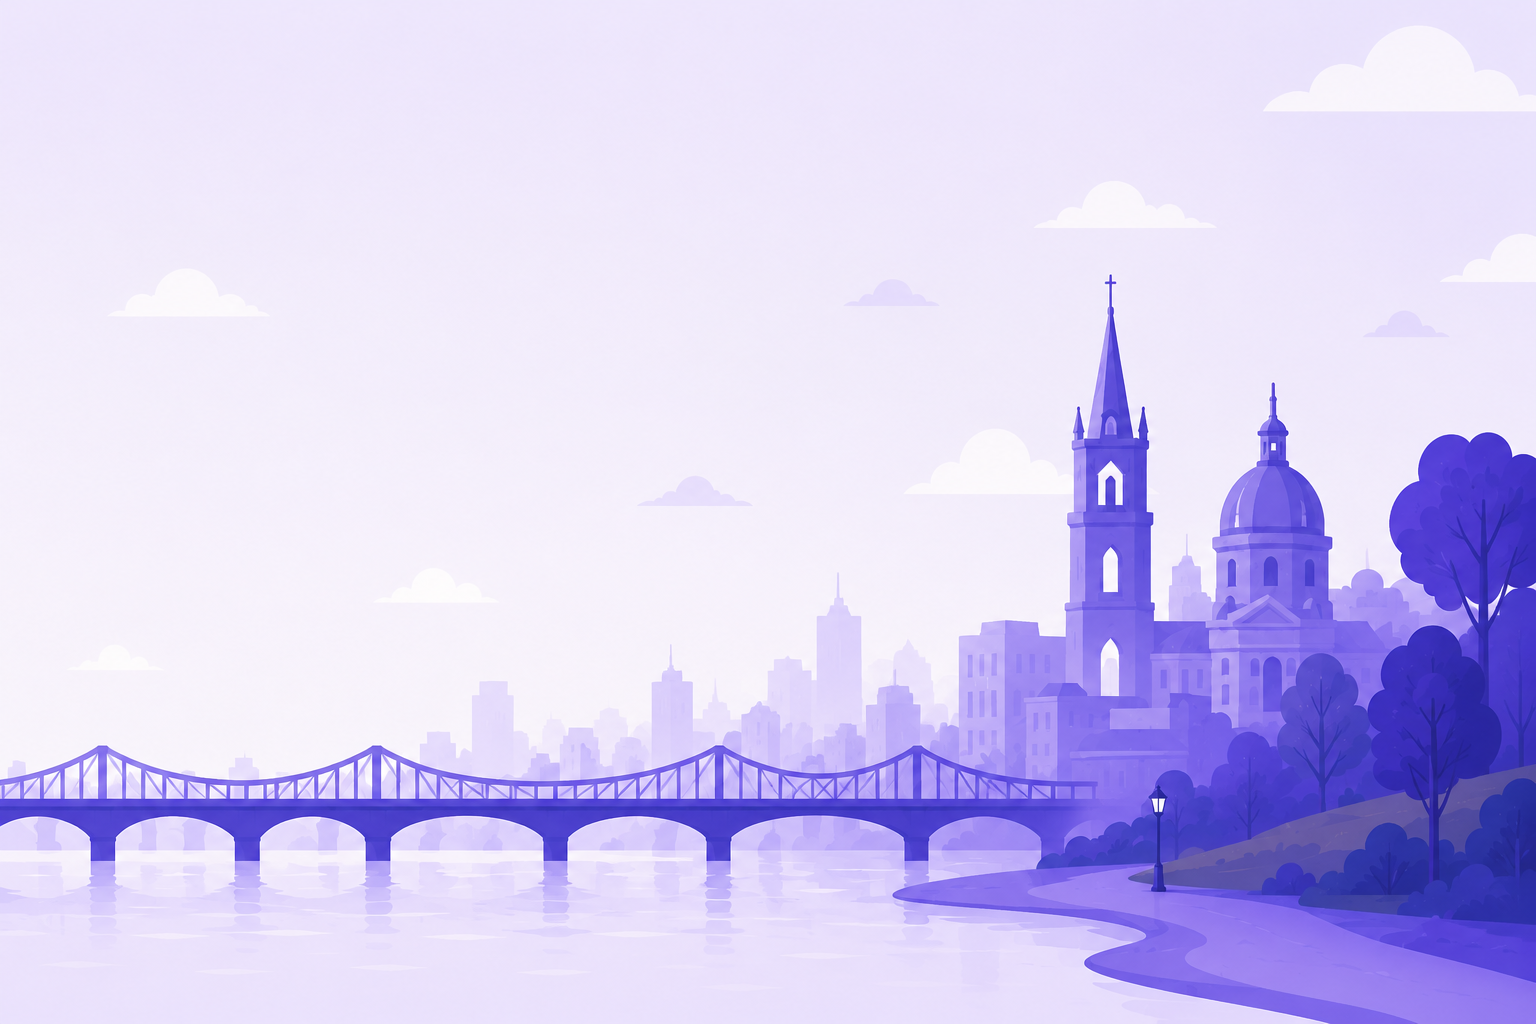
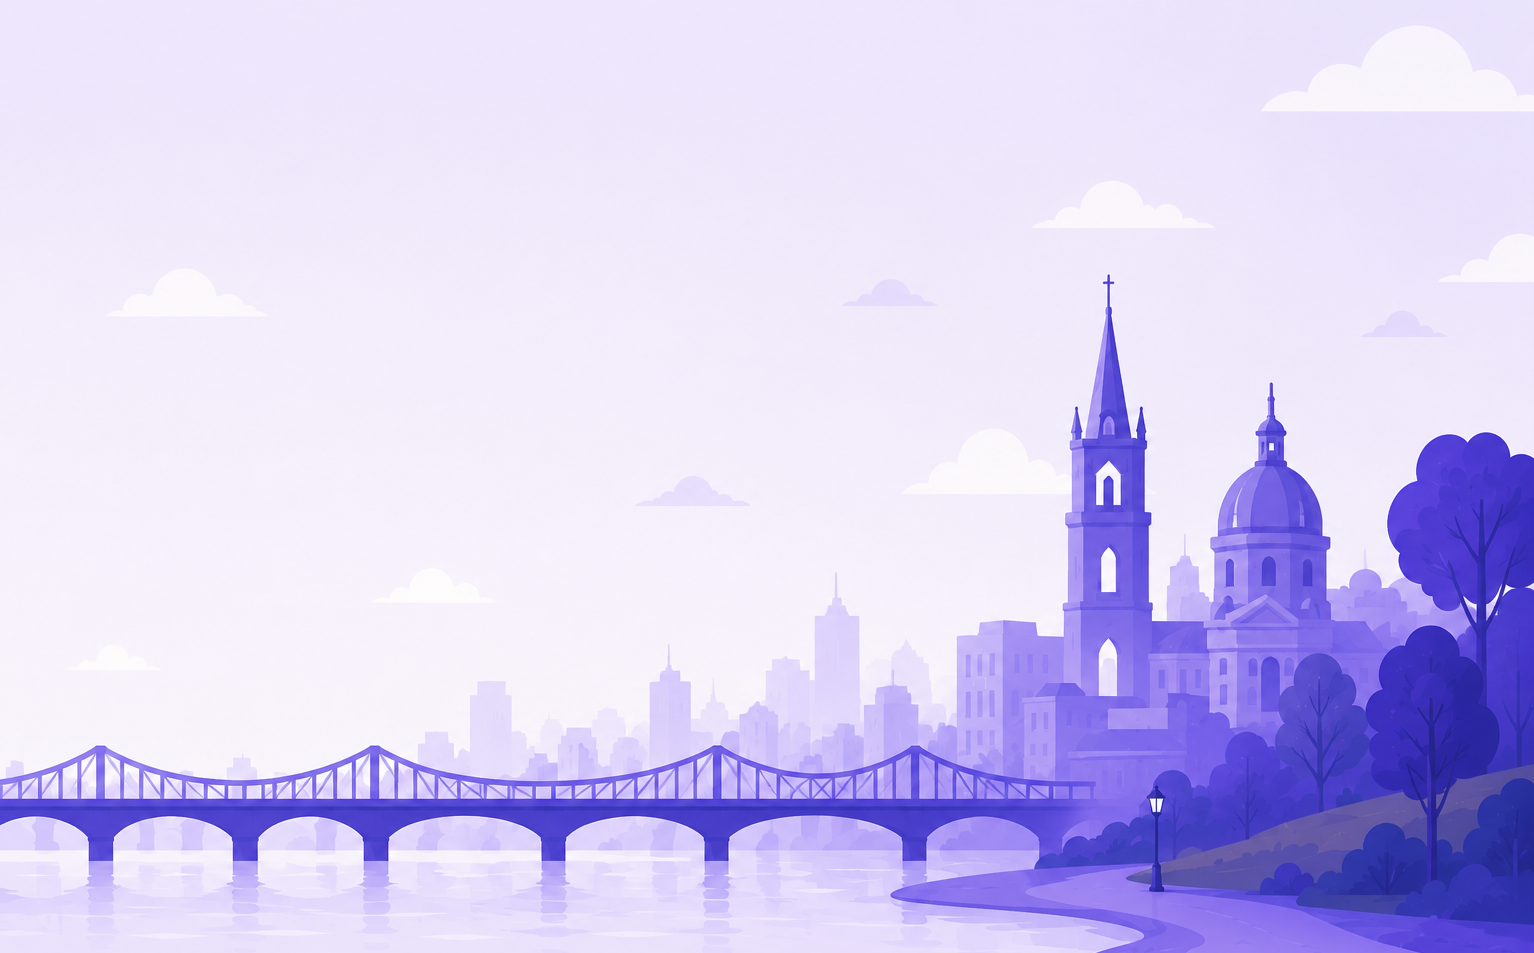
bottom nav bar doesnt cover content anymore

Changed region(s): [[0.0, 0.2739, 1.0, 1.0], [0.3064, 0.6999, 0.337, 0.7303]]

diff --git a/app/assets/stylesheets/pages/_home.scss b/app/assets/stylesheets/pages/_home.scss
@@ -6,9 +6,9 @@ header {
 }
 
 .nav {
-  display:flex;
-  align-items:center;
-  justify-content:space-between;
+  display: flex;
+  align-items: center;
+  justify-content: space-between;
   padding: 16px 32px;
   max-width: 1200px;
   margin: 0 auto;
@@ -23,9 +23,9 @@ header {
 }
 
 .nav-cta {
-  display:flex;
-  align-items:center;
-  gap:20px;
+  display: flex;
+  align-items: center;
+  gap: 20px;
 }
 
 .hero-section {
@@ -143,6 +143,7 @@ header {
 @media (min-width: 768px) {
   .hero-section {
     background-image: url('background-img-desktop.png');
+    background-position: bottom;
     padding-inline: 50px;
   }
 

diff --git a/app/assets/stylesheets/pages/_dashboard.scss b/app/assets/stylesheets/pages/_dashboard.scss
@@ -1,4 +1,4 @@
-.dashboard-card{
+.dashboard-card {
   border-radius: 10px;
   box-shadow: 2px 2px 5px $OJ-primary-light;
 }

diff --git a/app/assets/stylesheets/components/_bottom_navbar.scss b/app/assets/stylesheets/components/_bottom_navbar.scss
@@ -1,5 +1,5 @@
 .main-menu {
-  height: 90px;
+  height: 85px;
   background-color: $OJ-primary-light;
 
   i {
